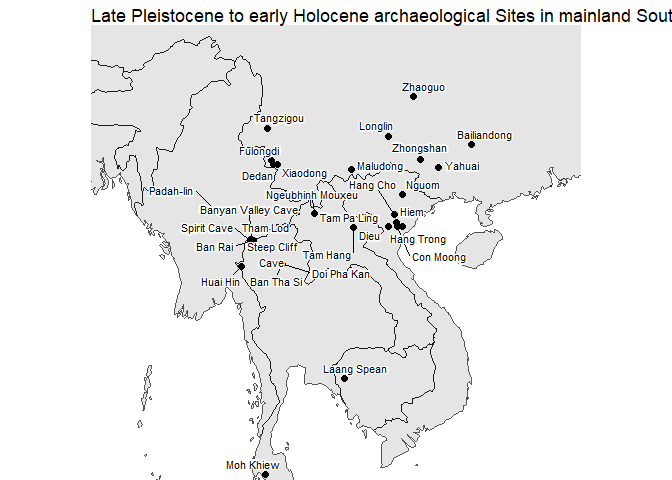
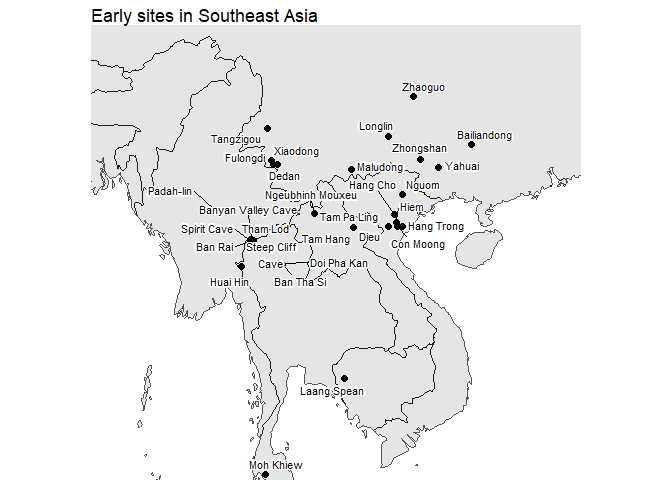
Adjusted the position of the text of a few events to be more visible and renamed the title of the map so it would fit

diff --git a/README.md b/README.md
@@ -127,7 +127,7 @@ ggplot(spd_unbinned$grid) +
            alpha = 0.2) +
     annotate("text",
            x = 13800, 
-           y = 0.09,
+           y = 0.08,
            label = "GI-1") + 
     annotate("rect",
            ymin = 0, ymax = Inf,
@@ -207,7 +207,7 @@ ggplot(spd_unbinned$grid) +
            alpha = 0.2) +
     annotate("text",
            x = 35130, 
-           y = 0.09,
+           y = 0.08,
            label = "GI-7") + 
     annotate("rect",
            ymin = 0, ymax = Inf,
@@ -436,7 +436,7 @@ ggplot(spd_res$grid) +
            alpha = 0.2) +
     annotate("text",
            x = 13800, 
-           y = 0.09,
+           y = 0.08,
            label = "GI-1") + 
     annotate("rect",
            ymin = 0, ymax = Inf,
@@ -516,7 +516,7 @@ ggplot(spd_res$grid) +
            alpha = 0.2) +
     annotate("text",
            x = 35130, 
-           y = 0.09,
+           y = 0.08,
            label = "GI-7") + 
     annotate("rect",
            ymin = 0, ymax = Inf,
@@ -842,7 +842,7 @@ sea_map <- ggplot(world) +
                   bg.color = "white",
                   bg.r = 0.15) +
   theme_void() +
-  labs(title = "Late Pleistocene to early Holocene archaeological Sites in mainland Southeast Asia and Southern China") 
+  labs(title = "Early sites in Southeast Asia") 
 
 sea_map
 ```
